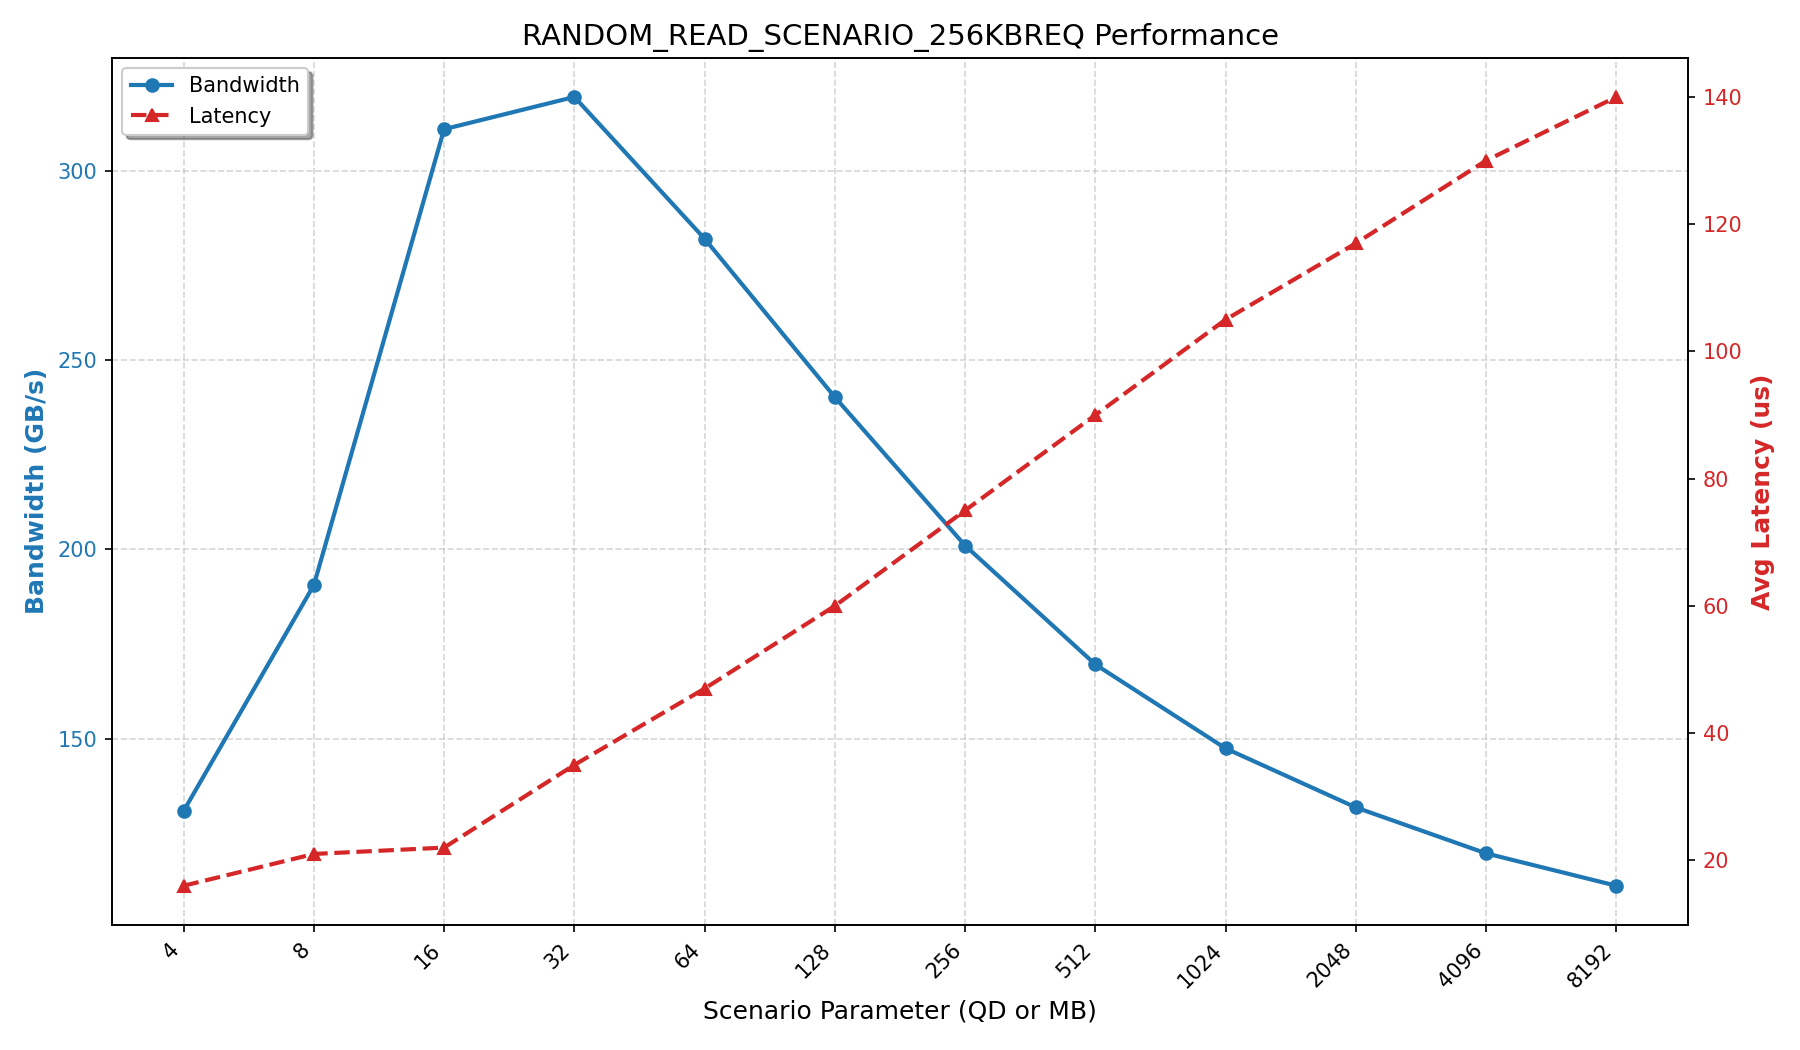
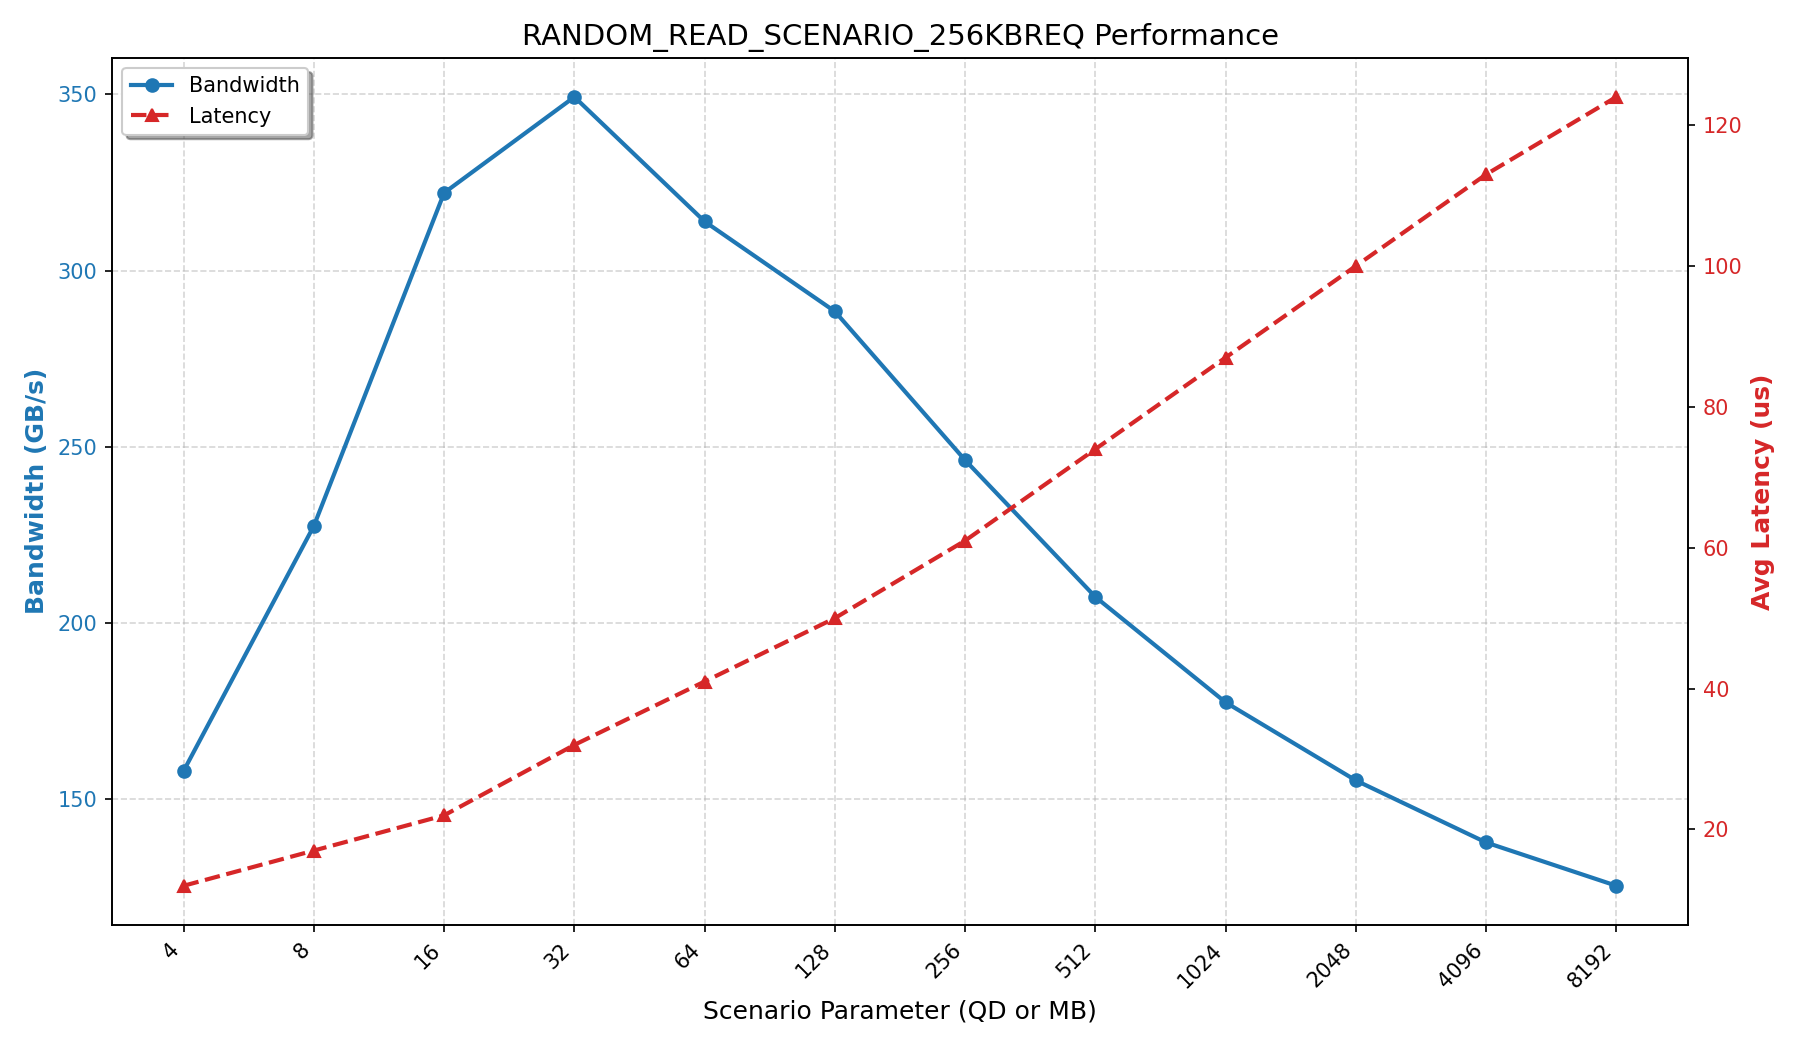
update HBF config

diff --git a/auto_simulate_chip_parallel.py b/auto_simulate_chip_parallel.py
@@ -6,6 +6,8 @@ import xml.etree.ElementTree as ET
 import glob
 import time
 from typing import Dict, List, Any
+import matplotlib.pyplot as plt
+import re
 
 # ================= 配置区域 =================
 # MQSim 可执行文件的路径 (请修改为你的实际路径)
@@ -14,6 +16,7 @@ MQSIM_EXEC_PATH = "./MQSim"
 HW_CONFIG_PATH = "./HBF_workspace/hbfconfig_chip_parallel.xml" 
 # 临时工作目录的根路径，用于存放并行跑的中间文件
 TEMP_WORKSPACE_ROOT = "./temp_sim_workspace/temp_symthesis_chip_parallel_sim_workspace"
+PLOTS_SAVE_DIR = "./workload_plots"
 # ===========================================
 
 def generate_workload_xml(filepath: str, params: Dict[str, Any]):
@@ -22,7 +25,7 @@ def generate_workload_xml(filepath: str, params: Dict[str, Any]):
     如果 params 中缺少某些字段，则使用下面的默认值。
     """
     # 默认的长 ID 列表，直接复制自你的示例
-    default_chip_ids = "2,3,4,5,6,7,8,9,10,75" #"0,1,2,3,4,5,6,7,8,9,10,11,12,13,14,15,16,17,18,19,20,21,22,23,24,25,26,27,28,29,30,31,32,33,34,35,36,37,38,39,40,41,42,43,44,45,46,47,48,49,50,51,52,53,54,55,56,57,58,59,60,61,62,63,64,65,66,67,68,69,70,71,72,73,74,75"
+    default_chip_ids = "0,1,2,3,4,5,6,7,8,9,10,11,12,13,14,15,16,17,18,19,20,21,22,23,24,25,26,27,28,29,30,31,32,33,34,35,36,37,38,39,40,41,42,43,44,45,46,47,48,49,50,51,52,53,54,55,56,57,58,59,60,61,62,63,64,65,66,67,68,69,70,71,72,73,74,75"
     default_channel_ids = "0,1,2,3,4,5,6,7,8,9,10,11,12,13,14,15,16,17,18,19,20,21,22,23,24,25,26,27,28,29,30,31" #"0,1,2,3,4,5,6,7,8,9,10,11,12,13,14,15,16,17,18,19,20,21,22,23,24,25,26,27,28,29,30,31"
     default_die_ids = "0"
     default_plane_ids = "0"
@@ -174,7 +177,7 @@ def worker_task(args):
         return case_name, {"Error": str(e)}
     finally:
         # 可选：运行完后清理临时文件
-        # shutil.rmtree(run_dir) 
+        shutil.rmtree(run_dir) 
         pass
 
 class MQSimAutomator:
@@ -205,6 +208,105 @@ class MQSimAutomator:
         print("[*] All simulations completed.")
         return results
 
+# ================= 新增：画图功能 =================
+def extract_sort_key(case_name):
+    """
+    尝试从文件名中提取数字用于排序。
+    优先匹配 'QD' 前的数字，其次匹配 'MB' 前的数字，最后默认字母排序。
+    """
+    # 尝试提取 Queue Depth (例如 16QD)
+    match_qd = re.search(r'(\d+)QD', case_name)
+    if match_qd:
+        return int(match_qd.group(1))
+    
+    # 尝试提取 Size (例如 4MB)
+    match_mb = re.search(r'(\d+)MB', case_name)
+    if match_mb:
+        return int(match_mb.group(1))
+        
+    return case_name
+
+def plot_and_save_results(scenario_name: str, results: Dict[str, Any]):
+    """
+    绘制结果并保存为 PNG。
+    改为双Y轴模式：左轴 Bandwidth，右轴 Latency。
+    """
+    if not os.path.exists(PLOTS_SAVE_DIR):
+        os.makedirs(PLOTS_SAVE_DIR)
+
+    # 1. 数据准备与排序
+    valid_data = []
+    for case_name, data in results.items():
+        if "Error" in data:
+            continue
+        valid_data.append({
+            "name": case_name,
+            "sort_key": extract_sort_key(case_name), # 依赖外部定义的 extract_sort_key 函数
+            "bw_gb": data.get("Bandwidth", 0) / (1024**3), # 转换为 GB/s
+            "lat": data.get("Avg_Response_Time", 0)
+        })
+
+    if not valid_data:
+        print(f"[!] No valid data to plot for {scenario_name}.")
+        return
+
+    # 按提取的数字键排序
+    valid_data.sort(key=lambda x: x["sort_key"])
+
+    # 提取轴数据
+    x_labels = [str(item["sort_key"]) for item in valid_data]
+    # 如果提取出的 key 区分度不够，回退到使用完整 case name
+    if len(set(x_labels)) < len(x_labels):
+         x_labels = [item["name"] for item in valid_data]
+
+    y_bw = [item["bw_gb"] for item in valid_data]
+    y_lat = [item["lat"] for item in valid_data]
+
+    # 2. 绘图 (双Y轴)
+    fig, ax1 = plt.subplots(figsize=(12, 7))
+
+    # --- 左轴: Bandwidth ---
+    color_bw = 'tab:blue'
+    ax1.set_xlabel('Scenario Parameter (QD or MB)', fontsize=12)
+    ax1.set_ylabel('Bandwidth (GB/s)', color=color_bw, fontsize=12, fontweight='bold')
+    
+    # 画柱状图或折线图均可，这里用折线+实心点
+    line1 = ax1.plot(x_labels, y_bw, color=color_bw, marker='o', linestyle='-', linewidth=2, label='Bandwidth')
+    ax1.tick_params(axis='y', labelcolor=color_bw)
+    ax1.grid(True, linestyle='--', alpha=0.5) # 只显示主轴的网格，避免混乱
+
+    # --- 右轴: Latency ---
+    ax2 = ax1.twinx()  # 实例化共享X轴的第二个坐标轴
+    color_lat = 'tab:red'
+    ax2.set_ylabel('Avg Latency (us)', color=color_lat, fontsize=12, fontweight='bold')
+    
+    # Latency 通常用虚线或者三角点区分
+    line2 = ax2.plot(x_labels, y_lat, color=color_lat, marker='^', linestyle='--', linewidth=2, label='Latency')
+    ax2.tick_params(axis='y', labelcolor=color_lat)
+
+    # --- 合并图例 ---
+    # 因为有两个轴，直接调用 plt.legend() 只会显示一个，需要手动合并 handle
+    lines = line1 + line2
+    labels = [l.get_label() for l in lines]
+    ax1.legend(lines, labels, loc='upper left', frameon=True, shadow=True)
+
+    # --- 标题与布局 ---
+    plt.title(f"{scenario_name} Performance", fontsize=14)
+    
+    # 防止 X 轴标签太密集重叠
+    fig.autofmt_xdate(rotation=45) 
+    
+    fig.tight_layout()
+
+    # 3. 保存
+    file_path = os.path.join(PLOTS_SAVE_DIR, f"chip-parallel-{scenario_name}.png")
+    plt.savefig(file_path, dpi=150) # 稍微提高dpi清晰度
+    plt.close()
+    
+    print(f"[*] Plot saved to: {file_path}")
+
+
+
 # ================= 使用示例 =================
 
 if __name__ == "__main__":
@@ -216,12 +318,12 @@ if __name__ == "__main__":
         print(f"Error: HW Config not found at {HW_CONFIG_PATH}")
         exit(1)
 
-    STREAMING_READ_SCENARIO_128KBREQ = {
-        f"seq_read_total_size_{2**(size_log-10)}MB_128kBreq": {
+    STREAMING_READ_SCENARIO_256KBREQ = {
+        f"seq_read_total_size_{2**(size_log-10)}MB_256kBreq": {
             "Read_Percentage": 100,
-            "Average_Request_Size": 256,  # 1sector = 512B
-            "Average_No_of_Reqs_in_Queue": min(int(2**(size_log-7)), 512),
-            "Total_Requests_To_Generate": 2**size_log//128,
+            "Average_Request_Size": 512,  # 1sector = 512B
+            "Average_No_of_Reqs_in_Queue": min(int(2**(size_log-8)), 64),
+            "Total_Requests_To_Generate": 2**size_log//256,
             "Address_Distribution": "STREAMING",
 
         }
@@ -229,12 +331,12 @@ if __name__ == "__main__":
         for size_log in range(12, 24)
     }
 
-    STREAMING_WRITE_SCENARIO_128KBREQ = {
+    STREAMING_WRITE_SCENARIO_256KBREQ = {
         f"seq_write_total_size_{2**(size_log-10)}MB_128kBreq": {
             "Read_Percentage": 0,
-            "Average_Request_Size": 256,  # 1sector = 512B
-            "Average_No_of_Reqs_in_Queue": min(int(int(2**(size_log-7))), 512),
-            "Total_Requests_To_Generate": 2**size_log//128,
+            "Average_Request_Size": 512,  # 1sector = 512B
+            "Average_No_of_Reqs_in_Queue": min(int(int(2**(size_log-8))), 512),
+            "Total_Requests_To_Generate": 2**size_log//256,
             "Address_Distribution": "STREAMING",
         }
 
@@ -253,12 +355,12 @@ if __name__ == "__main__":
         for size_log in range(12, 24)
     }
 
-    RANDOM_READ_SCENARIO_128KBREQ = {
-        f"rand_read_total_size_{2**(size_log-10)}MB_128kBreq": {
+    RANDOM_READ_SCENARIO_256KBREQ = {
+        f"rand_read_total_size_{2**(size_log-10)}MB_256kBreq": {
             "Read_Percentage": 100,
-            "Average_Request_Size": 256,  # 1sector = 512B
-            "Average_No_of_Reqs_in_Queue": min(int(2**(size_log-7)), 512),
-            "Total_Requests_To_Generate": 2**size_log//128,
+            "Average_Request_Size": 512,  # 1sector = 512B
+            "Average_No_of_Reqs_in_Queue": min(int(2**(size_log-8)), 64),
+            "Total_Requests_To_Generate": 2**size_log//256,
             "Address_Distribution": "RANDOM_UNIFORM",
         }
 
@@ -269,7 +371,7 @@ if __name__ == "__main__":
         f"rand_read_total_size_{2**(size_log-10)}MB_8kBreq": {
             "Read_Percentage": 100,
             "Average_Request_Size": 16,  # 1sector = 512B
-            "Average_No_of_Reqs_in_Queue": min(int(2**(size_log-3)), 1024),
+            "Average_No_of_Reqs_in_Queue": min(int(2**(size_log-3)), 64*64),
             "Total_Requests_To_Generate": 2**size_log//8,
             "Address_Distribution": "RANDOM_UNIFORM", 
         }
@@ -278,24 +380,24 @@ if __name__ == "__main__":
     }
 
     STREAMING_READ_SCENARIO_SCAN_QD = {
-        f"seq_read_total_size_{2**(18-10)}MB_{qd}QD": {
+        f"seq_read_total_size_{2**(14-10)}MB_{qd}QD": {
             "Read_Percentage": 100,
             "Average_Request_Size": 512,  # 1sector = 512B
             "Average_No_of_Reqs_in_Queue": qd,
-            "Total_Requests_To_Generate": 2**18//256,
+            "Total_Requests_To_Generate": 2**14//128,
             "Address_Distribution": "STREAMING",
 
         }
 
-        for qd in range(16,17,1)
+        for qd in range(1, 128, 16)
     }
 
     STREAMING_READ_SCENARIO_SCAN_QD_LOW_RANGE = {
-        f"seq_read_total_size_{2**(18-10)}MB_{qd}QD": {
+        f"seq_read_total_size_{2**(23-10)}MB_{qd}QD": {
             "Read_Percentage": 100,
             "Average_Request_Size": 512,  # 1sector = 512B
             "Average_No_of_Reqs_in_Queue": qd,
-            "Total_Requests_To_Generate": 2**18//256,
+            "Total_Requests_To_Generate": 2**23//128,
             "Address_Distribution": "STREAMING",
 
         }
@@ -304,11 +406,11 @@ if __name__ == "__main__":
     }
 
     STREAMING_READ_SCENARIO_SCAN_QD_SMALL_REQ = {
-        f"seq_read_total_size_{2**(18-10)}MB_{qd}QD_small": {
+        f"seq_read_total_size_{2**(23-10)}MB_{qd}QD_small": {
             "Read_Percentage": 100,
             "Average_Request_Size": 16,  # 1sector = 512B
             "Average_No_of_Reqs_in_Queue": qd,
-            "Total_Requests_To_Generate": 2**18//8,
+            "Total_Requests_To_Generate": 2**23//8,
             "Address_Distribution": "STREAMING",
 
         }
@@ -316,6 +418,13 @@ if __name__ == "__main__":
         for qd in range(1, 512, 16)
     }
 
+
+    scenarios_to_run = [
+        ("STREAMING_READ_SCAN_QD", STREAMING_READ_SCENARIO_SCAN_QD),
+        ("RANDOM_READ_SCENARIO_256KBREQ", RANDOM_READ_SCENARIO_256KBREQ),
+        ("RANDOM_READ_SCENARIO_8KBREQ", RANDOM_READ_SCENARIO_8KBREQ),
+        ("STREAMING_READ_SCENARIO_256KBREQ",STREAMING_READ_SCENARIO_256KBREQ)
+    ]
 
     scenarios = STREAMING_READ_SCENARIO_SCAN_QD
 
@@ -325,13 +434,18 @@ if __name__ == "__main__":
     final_results = automator.run(scenarios)
 
     # 3. 打印最终汇总结果
-    print("\n========= Final Summary =========")
-    print(f"{'Case Name':<20} | {'IOPS':<15} | {'Bandwidth (GB/s)':<20} | {'Latency (us)':<15}")
-    print("-" * 80)
-    for name, data in final_results.items():
-        if "Error" in data:
-            print(f"{name:<20} | ERROR: {data['Error']}")
-        else:
-            # Bandwidth 原始单位通常是 bytes/sec，这里转换为 GB/s 用于展示
-            bw_gb = data['Bandwidth'] / 1024 / 1024 / 1024
-            print(f"{name:<20} | {data['IOPS']:<15.2f} | {bw_gb:<20.4f} | {data['Avg_Response_Time']:<15.2f}")
+    for name, scenario_dict in scenarios_to_run:
+        print(f"\n=== Running Scenario Group: {name} ===")
+        
+        # 1. 运行仿真
+        final_results = automator.run(scenario_dict)
+        # 2. 打印文本摘要
+        print(f"{'Case Name':<40} | {'IOPS':<15} | {'BW (GB/s)':<15}")
+        print("-" * 80)
+        for case, data in final_results.items():
+            if "Error" not in data:
+                bw_gb = data['Bandwidth'] / 1024**3
+                print(f"{case:<40} | {data['IOPS']:<15.2f} | {bw_gb:<15.4f}")
+        
+        # 3. 画图并保存
+        plot_and_save_results(name, final_results)

diff --git a/src/exec/SSD_Device.cpp b/src/exec/SSD_Device.cpp
@@ -104,6 +104,33 @@ SSD_Device::SSD_Device(Device_Parameter_Set *parameters, std::vector<IO_Flow_Par
 			Simulator->AddObject(device->PHY);
 			break;
 		}
+		case SSD_Components::ONFI_Protocol::HBF:
+		{
+			SSD_Components::ONFI_Channel_NVDDR2 **channels = new SSD_Components::ONFI_Channel_NVDDR2 *[parameters->Flash_Channel_Count];
+			for (unsigned int channel_cntr = 0; channel_cntr < parameters->Flash_Channel_Count; channel_cntr++)
+			{
+				NVM::FlashMemory::Flash_Chip **chips = new NVM::FlashMemory::Flash_Chip *[parameters->Chip_No_Per_Channel];
+				for (unsigned int chip_cntr = 0; chip_cntr < parameters->Chip_No_Per_Channel; chip_cntr++)
+				{
+					chips[chip_cntr] = new NVM::FlashMemory::Flash_Chip(device->ID() + ".Channel." + std::to_string(channel_cntr) + ".Chip." + std::to_string(chip_cntr),
+																		channel_cntr, chip_cntr, parameters->Flash_Parameters.Flash_Technology, parameters->Flash_Parameters.Die_No_Per_Chip, parameters->Flash_Parameters.Plane_No_Per_Die,
+																		parameters->Flash_Parameters.Block_No_Per_Plane, parameters->Flash_Parameters.Page_No_Per_Block,
+																		read_latencies, write_latencies, parameters->Flash_Parameters.Block_Erase_Latency,
+																		parameters->Flash_Parameters.Suspend_Program_Time, parameters->Flash_Parameters.Suspend_Erase_Time);
+					Simulator->AddObject(chips[chip_cntr]); //Each simulation object (a child of MQSimEngine::Sim_Object) should be added to the engine
+				}
+				channels[channel_cntr] = new SSD_Components::ONFI_Channel_NVDDR2(channel_cntr, parameters->Chip_No_Per_Channel,
+																				 chips, parameters->Flash_Channel_Width,
+																				 (sim_time_type) 0, (sim_time_type)((double)1000 / parameters->Channel_Transfer_Rate) * 2, 0,0,0,0,0,0,0,0,0,0,0,0,0); // only data transfer is considered
+				device->Channels.push_back(channels[channel_cntr]); //Channels should not be added to the simulator core, they are passive object that do not handle any simulation event
+			}
+
+			//Step 3: create channel controller and connect channels to it
+			device->PHY = new SSD_Components::NVM_PHY_ONFI_NVDDR2(device->ID() + ".PHY", channels, parameters->Flash_Channel_Count, parameters->Chip_No_Per_Channel,
+																  parameters->Flash_Parameters.Die_No_Per_Chip, parameters->Flash_Parameters.Plane_No_Per_Die);
+			Simulator->AddObject(device->PHY);
+			break;
+		}
 		default:
 			throw std::invalid_argument("No implementation is available for the specified flash communication protocol");
 		}

diff --git a/src/ssd/ONFI_Channel_NVDDR2.h b/src/ssd/ONFI_Channel_NVDDR2.h
@@ -15,11 +15,11 @@ namespace SSD_Components
 	{
 	public:
 		ONFI_Channel_NVDDR2(flash_channel_ID_type channelID, unsigned int chipCount, NVM::FlashMemory::Flash_Chip** flashChips, unsigned int ChannelWidth,
-			sim_time_type t_RC = 0, sim_time_type t_DSC = 0,
-			sim_time_type t_DBSY = 0, sim_time_type t_CS = 0, sim_time_type t_RR = 0,
-			sim_time_type t_WB = 0, sim_time_type t_WC = 0, sim_time_type t_ADL = 0, sim_time_type t_CALS = 0,
-			sim_time_type t_DQSRE = 0, sim_time_type t_RPRE = 0, sim_time_type t_RHW = 0, sim_time_type t_CCS = 0,
-			sim_time_type t_WPST = 0, sim_time_type t_WPSTH = 0);
+			sim_time_type t_RC = 6, sim_time_type t_DSC = 6,
+			sim_time_type t_DBSY = 500, sim_time_type t_CS = 20, sim_time_type t_RR = 20,
+			sim_time_type t_WB = 100, sim_time_type t_WC = 25, sim_time_type t_ADL = 70, sim_time_type t_CALS = 15,
+			sim_time_type t_DQSRE = 15, sim_time_type t_RPRE = 15, sim_time_type t_RHW = 100, sim_time_type t_CCS = 300,
+			sim_time_type t_WPST = 6, sim_time_type t_WPSTH = 15);
 
 
 		sim_time_type TwoUnitDataOutTime; //The DDR delay for two-unit device data out

diff --git a/src/ssd/GC_and_WL_Unit_Base.cpp b/src/ssd/GC_and_WL_Unit_Base.cpp
@@ -107,9 +107,10 @@ namespace SSD_Components
 			{
 				PPA_type ppa;
 				MPPN_type mppa;
+				sim_time_type timestamp; 
 				page_status_type page_status_bitmap;
 				if (pbke->Blocks[transaction->Address.BlockID].Holds_mapping_data) {
-					_my_instance->address_mapping_unit->Get_translation_mapping_info_for_gc(transaction->Stream_id, (MVPN_type)transaction->LPA, mppa, page_status_bitmap);
+					_my_instance->address_mapping_unit->Get_translation_mapping_info_for_gc(transaction->Stream_id, (MVPN_type)transaction->LPA, mppa, timestamp);
 					//There has been no write on the page since GC start, and it is still valid
 					if (mppa == transaction->PPA) {
 						_my_instance->tsu->Prepare_for_transaction_submit();

diff --git a/src/exec/Device_Parameter_Set.cpp b/src/exec/Device_Parameter_Set.cpp
@@ -622,7 +622,10 @@ void Device_Parameter_Set::XML_deserialize(rapidxml::xml_node<> *node)
 				std::transform(val.begin(), val.end(), val.begin(), ::toupper);
 				if (strcmp(val.c_str(), "NVDDR2") == 0) {
 					Flash_Comm_Protocol = SSD_Components::ONFI_Protocol::NVDDR2;
-				} else {
+				} else if (strcmp(val.c_str(), "HBF") == 0) {
+					Flash_Comm_Protocol = SSD_Components::ONFI_Protocol::HBF;
+				} 
+				else {
 					PRINT_ERROR("Unknown flash communication protocol type specified in the SSD configuration file")
 				}
 			}

diff --git a/src/sim/Sim_Defs.h b/src/sim/Sim_Defs.h
@@ -5,7 +5,7 @@
 #include<string>
 #include<iostream>
 
-typedef uint64_t sim_time_type;
+typedef double sim_time_type;
 typedef uint16_t stream_id_type;
 typedef sim_time_type data_timestamp_type;
 

diff --git a/src/ssd/ONFI_Channel_Base.h b/src/ssd/ONFI_Channel_Base.h
@@ -6,7 +6,7 @@
 
 namespace SSD_Components
 {
-	enum class ONFI_Protocol {NVDDR2};
+	enum class ONFI_Protocol {NVDDR2, HBF};
 	class ONFI_Channel_Base : public NVM_Channel_Base
 	{
 	public:
